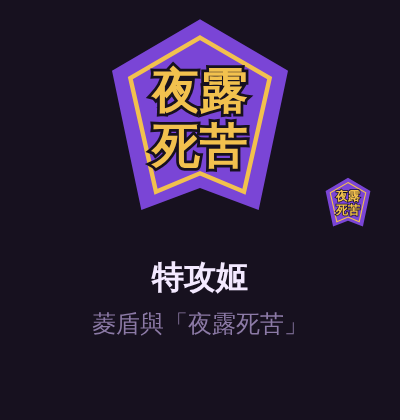
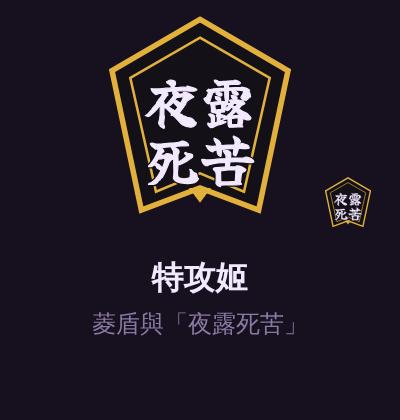
Emblems: Tokko in black, gold and white with brush-style 夜露死苦 (Yuji Boku glyphs, OFL, as paths)
Claude-Session: https://claude.ai/code/session_0124r2xsQFC3dhqq7LTcHpFW

Changed region(s): [[0.27, 0.031, 0.75, 0.5262], [0.81, 0.4024, 0.93, 0.5571]]

diff --git a/tools/art/gen_emblems_v1.py b/tools/art/gen_emblems_v1.py
@@ -133,10 +133,17 @@ honey = ('<defs><filter id="neon" x="-30%" y="-30%" width="160%" height="160%"><
          f'<g filter="url(#neon)" fill="none" stroke="#FF4FA3" stroke-width="5" stroke-linejoin="round" stroke-linecap="round"><path d="{lips}"/><path d="M14 60C40 64 80 64 106 60"/></g>'
          '<g fill="none" stroke="#FFD0E6" stroke-width="1.6"><path d="M14 60C26 44 42 38 52 46C56 42 64 42 68 46C78 38 94 44 106 60"/></g>')
 
-# 特攻姬：尖角的紫色菱盾，金線框，裡面是金色的「夜露死苦」。暴走族的味道，所以這一個用字。
-tokko = ('<path d="M60 4L108 32L92 108L60 96L28 108L12 32Z" fill="#7A45D6"/>'
-         '<path d="M60 14L98 36L84 98L60 88L36 98L22 36Z" fill="none" stroke="#F2C14E" stroke-width="2.4"/>'
-         '<text x="47" y="52" fill="#F2C14E" stroke="#17111F" stroke-width="3" paint-order="stroke" font-family="Noto Serif TC, Noto Sans TC, serif" font-weight="900" font-size="26" text-anchor="middle">夜</text><text x="73" y="52" fill="#F2C14E" stroke="#17111F" stroke-width="3" paint-order="stroke" font-family="Noto Serif TC, Noto Sans TC, serif" font-weight="900" font-size="26" text-anchor="middle">露</text><text x="47" y="82" fill="#F2C14E" stroke="#17111F" stroke-width="3" paint-order="stroke" font-family="Noto Serif TC, Noto Sans TC, serif" font-weight="900" font-size="26" text-anchor="middle">死</text><text x="73" y="82" fill="#F2C14E" stroke="#17111F" stroke-width="3" paint-order="stroke" font-family="Noto Serif TC, Noto Sans TC, serif" font-weight="900" font-size="26" text-anchor="middle">苦</text>')
+# 特攻姬：黑色的尖角菱盾，金線框，裡面是白色毛筆字的「夜露死苦」。暴走族的味道，所以這一個用字。
+_G = __import__('json').load(open(__import__('os').path.join(__import__('os').path.dirname(__file__), 'yoroshiku-glyphs.json'), encoding='utf-8'))
+def brush(ch, x, y, size):
+    """毛筆字（Yuji Boku，OFL；tools/art/yoroshiku-glyphs.json）轉成路徑，(x, y) 是字的左上角。"""
+    k = size / 1000
+    return f'<path transform="translate({x} {y}) scale({k})" d="{_G[ch]["d"]}"/>'
+
+tokko = ('<path d="M60 4L108 32L92 108L60 96L28 108L12 32Z" fill="#141018" stroke="#E2B13C" stroke-width="3"/>'
+         '<path d="M60 14L98 36L84 98L60 88L36 98L22 36Z" fill="none" stroke="#E2B13C" stroke-width="1.4"/>'
+         + ''.join(f'<g fill="{f}" stroke="{c}" stroke-width="{w}" stroke-linejoin="round">' + brush('夜', 30, 26, 30) + brush('露', 60, 26, 30) + brush('死', 30, 58, 30) + brush('苦', 60, 58, 30) + '</g>' for f, c, w in (('#141018', '#141018', 70), ('#F3E9FF', '#F3E9FF', 22))) +
+         '<path d="M54 96L60 104L66 96" fill="#E2B13C"/>')
 
 # 牆語者：細線的秘儀符號。圓、倒三角、一道往裡捲的耳形螺旋、放射的短線。單色暗紫（提亮一點才看得見）。
 spiral = 'M60 40c12 0 20 8 20 18s-8 16-16 16-12-6-12-12 4-8 8-8 6 3 6 6'

diff --git a/docs/art/ART_STYLE.md b/docs/art/ART_STYLE.md
@@ -108,7 +108,7 @@ node tools/art/render.mjs
 | 蜜糖會 | 霓虹招牌的唇印 | 霓虹粉 |
 | 胭脂堂 | 花牌的梅（樣本） | 緋、黑、白 |
 | 鉻娘子 | 半機娘的側臉，後腦是齒輪（樣本） | 鉻色金屬，一點粉 |
-| 特攻姬 | 尖角的菱盾，金線框裡是「夜露死苦」四個字 | 雙色・紫與金 |
+| 特攻姬 | 尖角的菱盾，金線框裡是毛筆字的「夜露死苦」（字形取自 Yuji Boku，OFL，轉成路徑） | 黑、金、白 |
 | 野良 | 噴漆模板的貓與漆滴（樣本） | 單色・橘 |
 | 牆語者 | 細線的秘儀符號 | 單色・暗紫 |
 | 野薔薇 | 生鏽鐵板切出的薔薇 | 鏽紅 |
